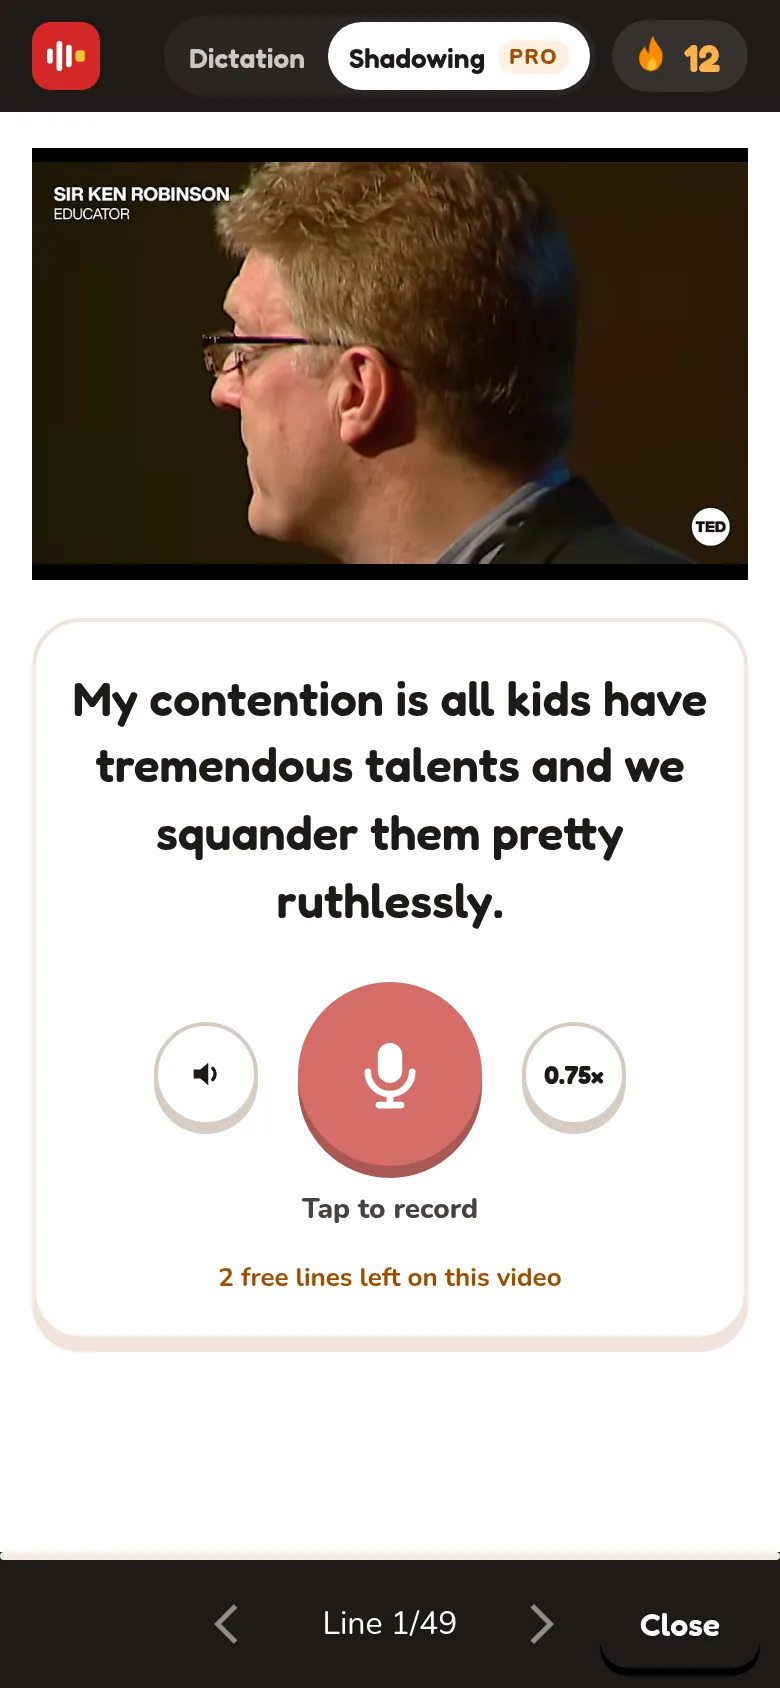
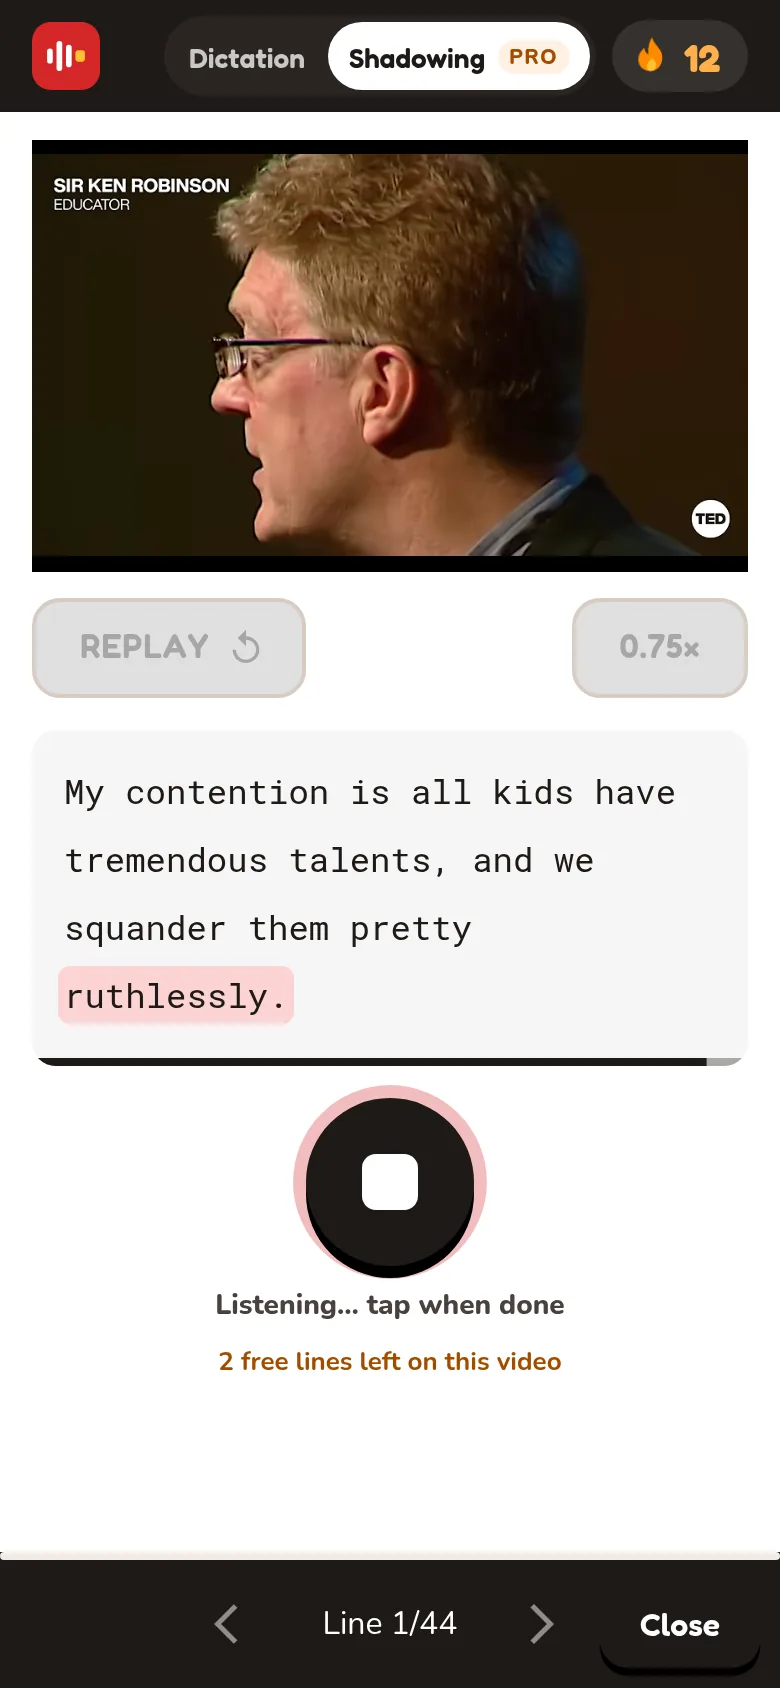
Shadowing guide: the mic opens by itself, non-line parts just play, Dictation's frame

Changed region(s): [[0.0308, 0.0616, 0.9846, 0.8318], [0.5538, 0.955, 0.5846, 0.9858]]

diff --git a/src/pages/shadowing.html b/src/pages/shadowing.html
@@ -8,22 +8,24 @@
 </div>
 
 <h2>Switch to Shadowing</h2>
-<p>Open any lesson. In the top bar, click <strong>Shadowing</strong>. The video stays; only the card on the right changes. Press <strong>START</strong> (or <kbd>Enter</kbd>) and the first line plays. Each mode remembers its own place, so you can switch back to <strong>Dictation</strong> at any time.</p>
+<p>Open any lesson. In the top bar, click <strong>Shadowing</strong>. The video stays; only the card on the right changes, and it keeps Dictation's shape: REPLAY at the top, the sentence in the same box, the action under it. Press <strong>START</strong> (or <kbd>Enter</kbd>); the browser asks for the microphone once, and the first line plays. Each mode remembers its own place, so you can switch back to <strong>Dictation</strong> at any time.</p>
 <shot src="shadowing-start" caption="The start screen: what to do, and START." alt="A lesson in Shadowing mode showing the start screen with four short instructions and a START button">
-<shot src="shadowing-ready" caption="The line has played: the sentence, the replay button, the red record button and the 0.75× button." alt="The Shadowing card: the sentence, a small replay button, a big red record button and a 0.75× button">
+<shot src="shadowing-ready" caption="The line is playing: REPLAY and 0.75× at the top, the sentence with the word being said marked, the microphone waiting." alt="The Shadowing card: REPLAY and 0.75× keycaps, the sentence in a box with a progress bar, a grey microphone button saying Listen first">
 
 <h2>One line in four taps</h2>
 <div class="cards not-prose">
-    <div class="card"><p class="card-icon">🎧</p><p class="card-title">1. Listen</p><p class="card-text">The line plays by itself and the words light up. The record button stays grey until it ends. The small speaker button (or <kbd>Tab</kbd>) replays it.</p></div>
-    <div class="card"><p class="card-icon">🔴</p><p class="card-title">2. Record</p><p class="card-text">When the button turns red, tap it (or <kbd>Space</kbd>) and say the line. It stops by itself, or tap again.</p></div>
-    <div class="card"><p class="card-icon">✅</p><p class="card-title">3. See the result</p><p class="card-text">Green words were heard clearly, red underlined ones were not. The ear button plays your take; the red button records again.</p></div>
+    <div class="card"><p class="card-icon">🎧</p><p class="card-title">1. Listen</p><p class="card-text">The line plays by itself and the words light up. <strong>REPLAY</strong> (or <kbd>Tab</kbd>) plays it again; <strong>0.75×</strong> plays it slower.</p></div>
+    <div class="card"><p class="card-icon">🎤</p><p class="card-title">2. Say it</p><p class="card-text">When the line ends the microphone opens by itself: the button turns black and a red ring follows your voice. Say the line at your pace. It stops by itself once you go quiet (or tap it, or <kbd>Space</kbd>).</p></div>
+    <div class="card"><p class="card-icon">✅</p><p class="card-title">3. See the result</p><p class="card-text">Green words were heard clearly, red underlined ones were not. The ear button plays your take; the red button opens the microphone again.</p></div>
     <div class="card"><p class="card-icon">➡</p><p class="card-title">4. Continue</p><p class="card-text"><strong>CONTINUE</strong> (or <kbd>Enter</kbd>) moves on, and the next line plays by itself.</p></div>
 </div>
-<shot src="shadowing-result" caption="After a take: the score, the line in colour, the buttons, CONTINUE." alt="The result card: a 100% ring, the line in green, replay, record again and play-my-take buttons, and a CONTINUE button">
-<div class="callout callout-tip"><span class="callout-icon">💡</span><div><strong>Lines, not clips.</strong> Shadowing uses whole sentences, or natural phrases of a long one, cut only where the speaker pauses.</div></div>
+<shot src="shadowing-result" caption="After a take: the line in colour, the microphone and the ear button, the score and CONTINUE." alt="The result card: the line in green with a missed word underlined in red, a red microphone and an ear button, a score ring and a CONTINUE button">
+<div class="callout callout-tip"><span class="callout-icon">💡</span><div><strong>Lines, not clips.</strong> Shadowing uses whole sentences, or natural phrases of a long one, cut only where the speaker pauses. Parts that aren't clear speech (music, other languages, unclear words) aren't lines, but they aren't skipped either: they play as <strong>Just listen</strong> stretches, like in Dictation, and move on by themselves. <kbd>Enter</kbd> skips one.</div></div>
+
+<shot src="shadowing-listen" caption="A stretch that isn't a line: it just plays, and Enter skips it." alt="The Just listen card in Shadowing: the skipped text, REPLAY, Enter to skip, and Listening in the bottom bar">
 
 <h2>What the score means</h2>
-<p>The score is the share of the line's words the app heard clearly in your take. 100% means every word was clear. It is <strong>not</strong> a pronunciation grade: speaking too fast, too softly, or too far from the microphone also lowers it. Under the score you also see your timing, for example <em>You said it 0.8 s slower than the speaker</em>, and a hint such as <em>Try “cup of” again</em>.</p>
+<p>The score is the share of the line's words the app heard clearly in your take. 100% means every word was clear. It is <strong>not</strong> a pronunciation grade: speaking too fast, too softly, or too far from the microphone also lowers it.</p>
 
 <h2>Too fast? Slow it down</h2>
 <p>Press the <strong>0.75×</strong> button to hear the line slower; press it again for normal speed. Lines from fast speakers start at 0.75× by themselves. The speed only applies to Shadowing.</p>
@@ -44,7 +46,7 @@
 
 <h2>On your phone</h2>
 <p>Shadowing works on phones too: the player is on top, the card under it. The first time, your browser asks for permission to use the microphone.</p>
-<shot src="shadowing-phone" caption="Shadowing on a phone." alt="The Shadowing card on a phone: the line, Listen, the record button and Mine">
+<shot src="shadowing-phone" caption="Shadowing on a phone: the microphone is open." alt="The Shadowing card on a phone: REPLAY and 0.75×, the line, and the black microphone button with Say it now under it">
 
 <h2>Your privacy</h2>
 <p>Your recording is sent to a speech-to-text model to find out which words were said, and then dropped. Nothing you record is stored, and nobody listens to it. Each account can run a number of checks per day; after that, recording and playback still work, and the word check comes back the next day.</p>
@@ -53,6 +55,7 @@
 <div class="faq">
     <details><summary>The record button says microphone access is needed</summary><p>Allow the microphone for dictationdaily.com in your browser's site settings, then reload the page.</p></details>
     <details><summary>“This browser can't record audio”</summary><p>Use a recent Chrome, Edge, Firefox or Safari.</p></details>
-    <details><summary>“We didn't catch any words”</summary><p>Record closer to the microphone, or check which microphone your system uses. Then press <strong>Again</strong>.</p></details>
+    <details><summary>The score is 0% and the ring never moved</summary><p>The microphone heard nothing. Record closer to it, or check which microphone your system uses, then tap the red button for another go. The button turning black is the sign it is open.</p></details>
+    <details><summary>Recording stops before I finish</summary><p>It stops after about two seconds of quiet. Keep the pauses between your words shorter than that; tapping the button stops it only when you want.</p></details>
     <details><summary>“We couldn't check this take”</summary><p>The speech service didn't answer. You can still play your take next to the speaker's, or record again.</p></details>
 </div>
